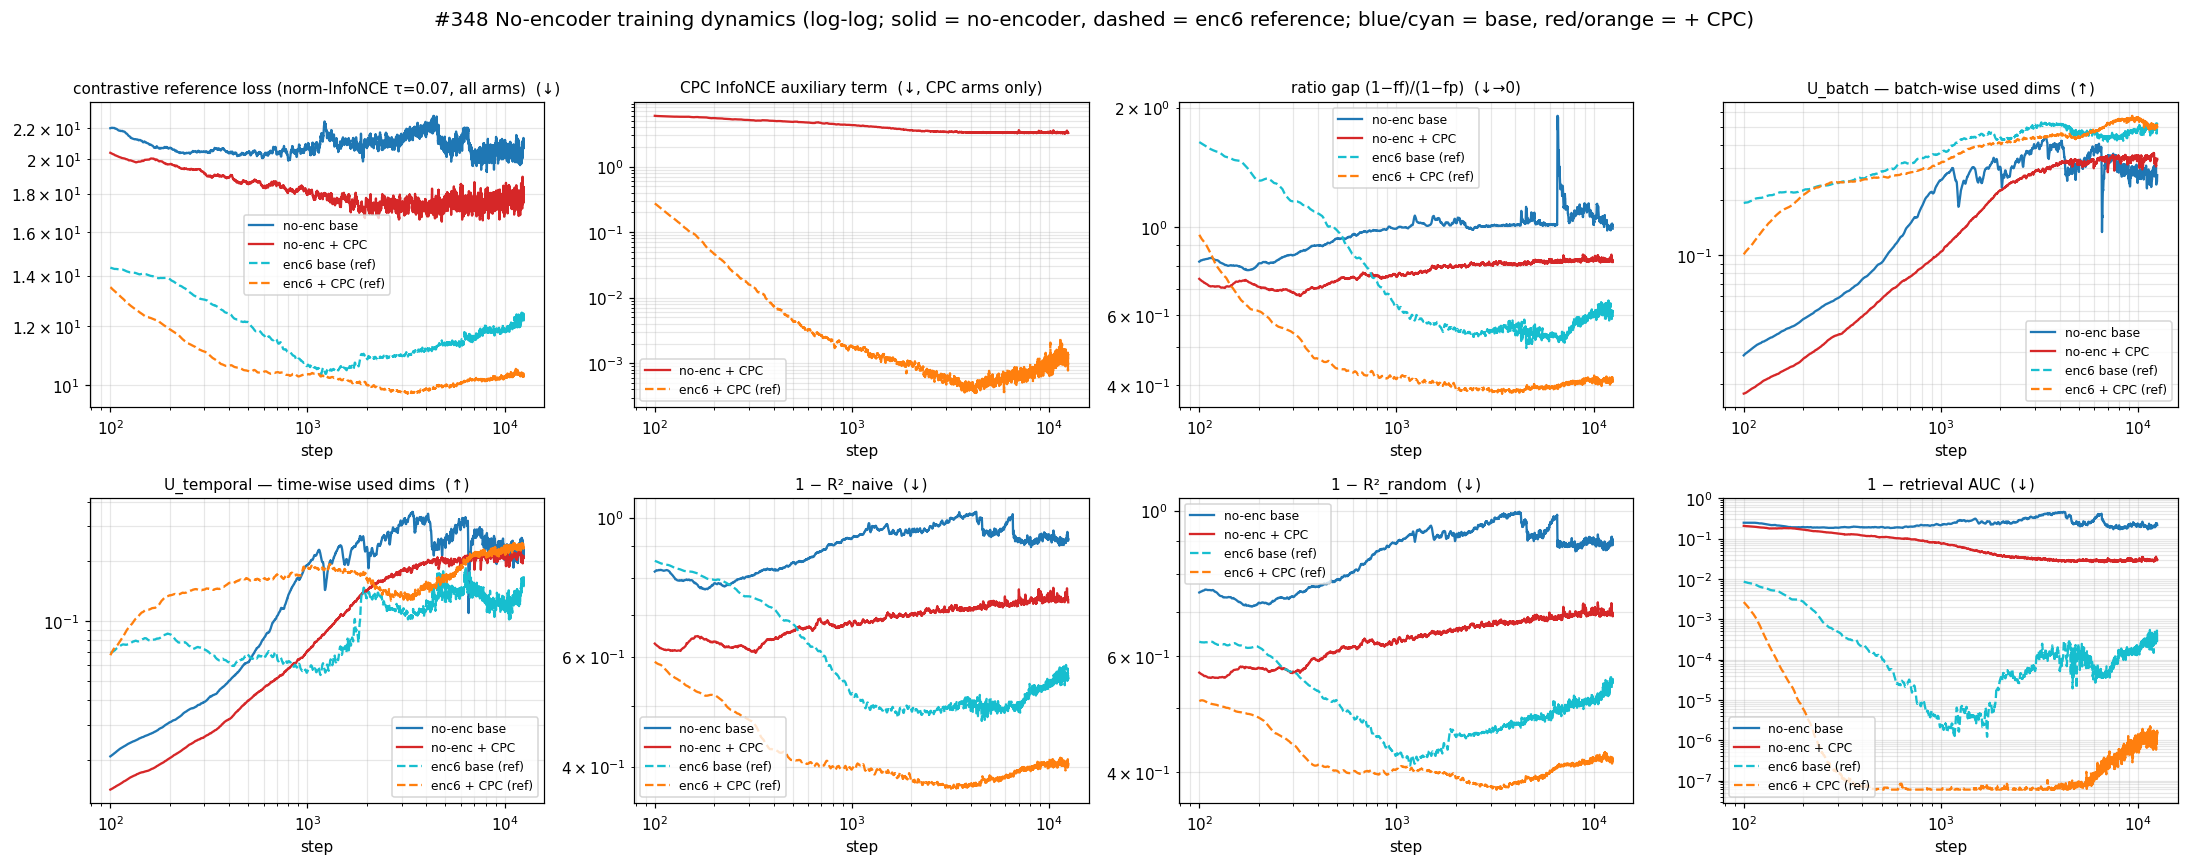
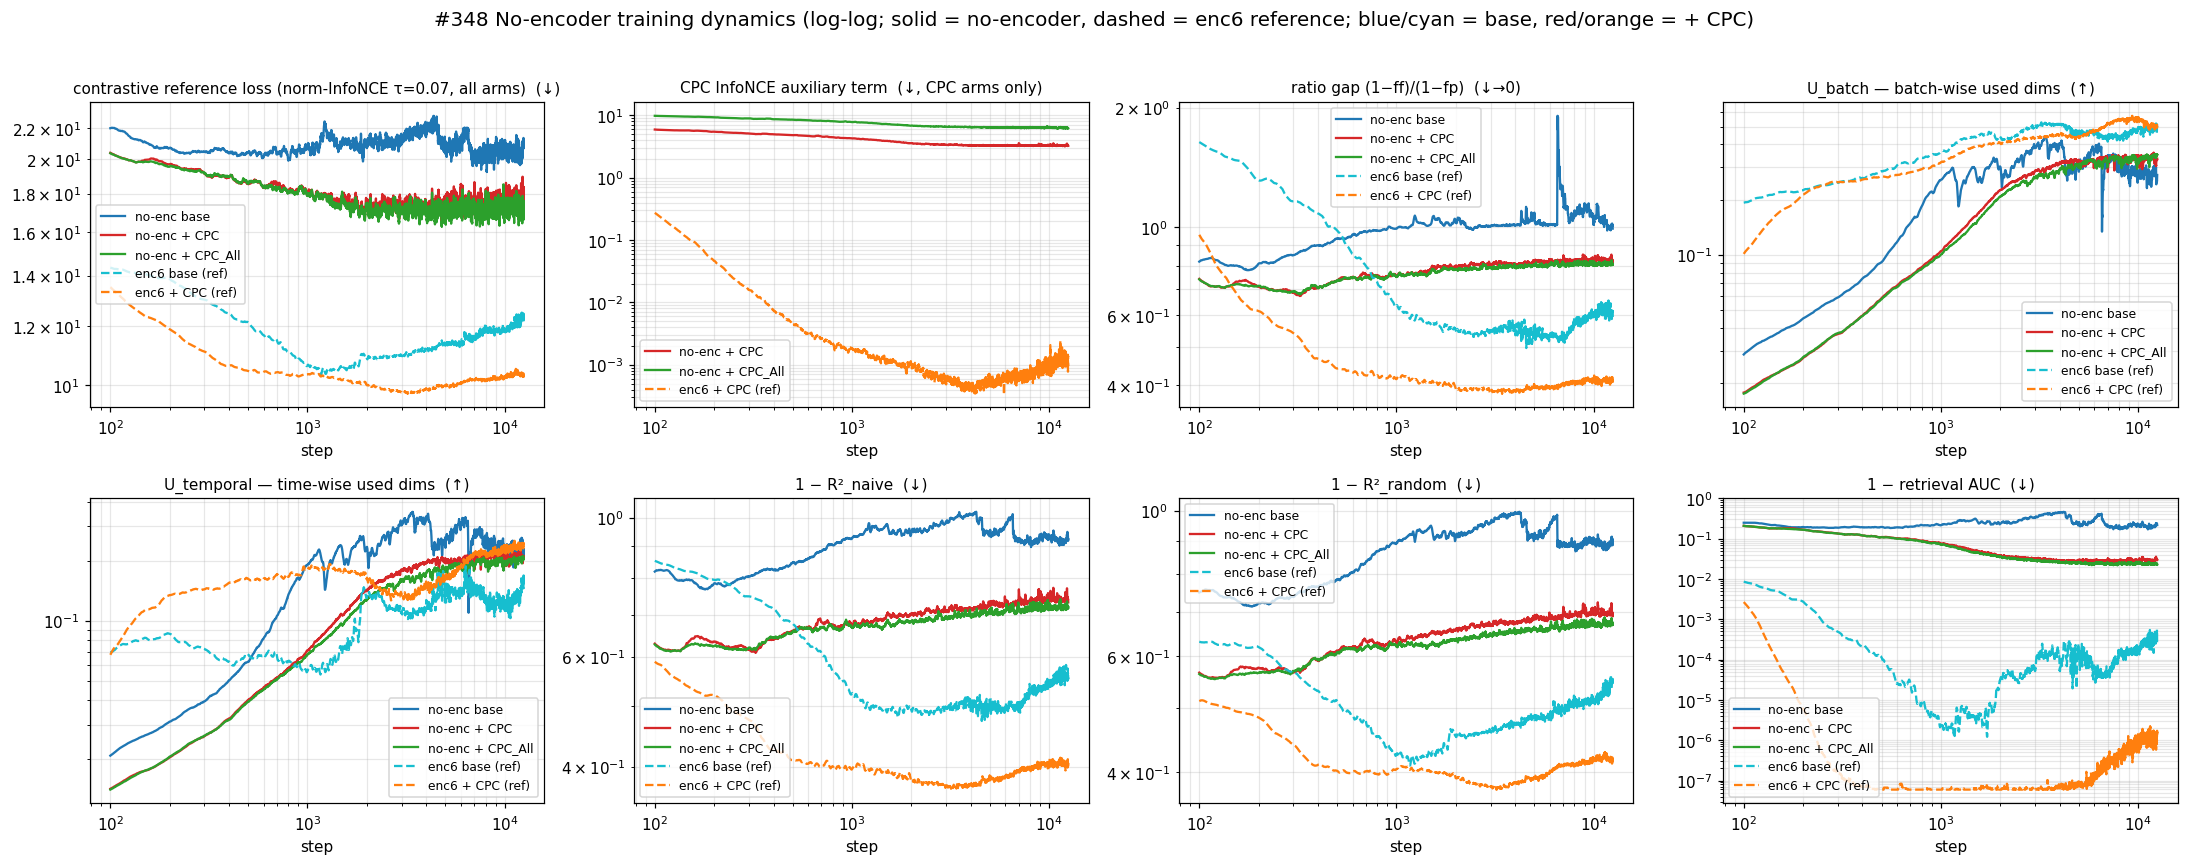
report(#348): add CPC_All arm (facts-only) — full-marginal CPC negatives
CPC_All (no-encoder, van den Oord Eq.4 full marginal candidate set): 2L 1.177/1.171,
6L 1.182/1.168. vs base reliably lower at every cell; vs the no-encoder narrow-CPC
the best cells are +0.009/+0.029 above (6L reliably), the last cells straddle 0; vs
encoder'd +CPC 6/8 intervals straddle 0. Table row + delta facts + dynamics curve
(cpc term stays ~6, doesn't collapse). gm/pairwise CSVs updated.

diff --git a/experiments/2026-06-15_no_encoder_redo/no_encoder_redo.md b/experiments/2026-06-15_no_encoder_redo/no_encoder_redo.md
@@ -1,10 +1,12 @@
 # No-encoder backbone: GIFT-Eval forecasting error with and without the CPC term
 
 We remove the encoder stack from the backbone (`--num-encoder-layers 0`) so the
-forecaster reads the patch-embedding directly, train it under two losses — the
-contrastive loss alone, and the contrastive loss plus the CPC InfoNCE auxiliary
-term — and measure GIFT-Eval forecasting error (GM-Relative MASE). We compare
-against the same recipe trained with a 3-layer and a 6-layer encoder.
+forecaster reads the patch-embedding directly, train it under three losses — the
+contrastive loss alone (**base**), the contrastive loss plus the CPC InfoNCE
+auxiliary term (**+ CPC**), and that term with its candidate set widened to the
+full van den Oord Eq. 4 marginal — every other sequence at every step
+(**+ CPC_All**) — and measure GIFT-Eval forecasting error (GM-Relative MASE). We
+compare against the same recipe trained with a 3-layer and a 6-layer encoder.
 
 *A backbone here is patch-embedding → (encoder stack) → forecaster. The
 patch-embedding (a GRU) turns each window patch into one token; the encoder is a
@@ -32,6 +34,7 @@ encoder (this work); 3 and 6 = the 3- and 6-layer-encoder backbones.
 | + CPC, **no encoder** | **1.168 / 1.165** | **1.153 / 1.160** |
 | + CPC, enc-3 | 1.185 / 1.153 | 1.158 / 1.144 |
 | + CPC, enc-6 | 1.179 / 1.180 | 1.158 / 1.162 |
+| + CPC_All, **no encoder** | **1.177 / 1.171** | **1.182 / 1.168** |
 
 Paired-bootstrap Δ = GM(no encoder) − GM(encoder'd), 90% interval (resampling the
 97-task list with repeats; positive ⇒ the no-encoder GM is higher):
@@ -52,15 +55,27 @@ interval: 2L best −0.258 (−0.325, −0.200), 6L best −0.199 (−0.250, −
 last −0.099 (−0.124, −0.076), 6L last −0.079 (−0.106, −0.056) — every interval
 below zero.
 
+**+ CPC_All** (no encoder, the full-marginal candidate set) vs **base**, same Δ:
+2L best −0.248 (−0.316, −0.190), 6L best −0.171 (−0.222, −0.122), 2L last −0.093
+(−0.114, −0.073), 6L last −0.071 (−0.094, −0.049) — every interval below zero.
+vs the no-encoder **+ CPC** arm, Δ = GM(+CPC_All) − GM(+CPC): 2L best +0.009
+(+0.000, +0.020), 6L best +0.029 (+0.011, +0.049), 2L last +0.007 (−0.002,
++0.015), 6L last +0.008 (−0.002, +0.019) — the two last cells straddle zero, the
+two best cells are above it. vs the encoder'd **+ CPC** arms, six of eight
+intervals straddle zero (the exceptions are +0.018 and +0.025 at the last
+checkpoint vs enc-3).
+
 ## Training curves
 
-![Training metrics, log-log. Solid = no encoder (blue base / red + CPC), dashed =
-enc-6 reference (blue/orange).](plots/training_dynamics.png)
+![Training metrics, log-log. Solid = no encoder (blue base / red + CPC / green
++ CPC_All), dashed = enc-6 reference (blue/orange).](plots/training_dynamics.png)
 
-The CPC term's logged value (panel 2) stays near 3 throughout the no-encoder run;
-in the encoder'd run it falls below 10⁻³ by about step 1,000. Across training the
-no-encoder + CPC run records a lower contrastive reference loss, lower 1−R², and
-lower 1−AUC than the no-encoder base run (panels 1, 6, 8).
+The CPC term's logged value (panel 2) stays near 3 (+ CPC) and near 6 (+ CPC_All)
+throughout the no-encoder runs; in the encoder'd run it falls below 10⁻³ by about
+step 1,000. (The + CPC and + CPC_All term values are on different scales — their
+candidate sets differ in size.) Across training the no-encoder + CPC and + CPC_All
+runs record a lower contrastive reference loss, lower 1−R², and lower 1−AUC than
+the no-encoder base run (panels 1, 6, 8).
 
 From best-loss to last checkpoint, the no-encoder + CPC GM changes by ≤0.007
 (2L 1.168→1.165, 6L 1.153→1.160); the no-encoder base GM is lower at the last
@@ -74,9 +89,10 @@ crossfade-triplet allt·0.8% data mix, qk-norm, attention-output norm, the
 `xshh_allt` contrastive loss with positive-in-denominator and floor subtraction,
 the encoder-side positive stop-gradient (`--stopgrad-positive-h`), τ 0.10, batch
 1024, 12,500 steps, seed 20260520 — with the encoder stack removed
-(`--num-encoder-layers 0`). The two arms differ only in the loss: **base** is the
+(`--num-encoder-layers 0`). The arms differ only in the loss: **base** is the
 contrastive loss alone; **+ CPC** adds the CPC InfoNCE term (`--cpc-infonce-weight
-1.0`). To score a backbone we freeze it and train a fresh quantile forecasting
+1.0`); **+ CPC_All** is the same term with its candidate set widened to the full
+marginal (`--cpc-infonce-negs cross`). To score a backbone we freeze it and train a fresh quantile forecasting
 head, once with two transformer layers and once with six, and evaluate on
 GIFT-Eval's 97 tasks at the best-loss checkpoint (lowest smoothed contrastive
 loss) and the last checkpoint (step 12,500). The enc-3 and enc-6 numbers come
@@ -96,5 +112,8 @@ L_cpc = − log(  exp(e_{t+1}ᵀ W₁ h_t)  /  Σ_{e_j ∈ C}  exp(e_jᵀ W₁ h
 
 The positive sits in the denominator (normalized InfoNCE ≥ 0), summed
 equal-weight, no stop-gradient, no temperature (`W₁` carries the scale). The
-candidate set `C` here is the matched-step cross-batch embeddings plus the same
-sequence's other-step embeddings.
+candidate set `C` differs by arm: **+ CPC** uses the matched-step cross-batch
+embeddings plus the same sequence's other-step embeddings; **+ CPC_All** uses the
+positive plus every other sequence's embeddings at every step (the full marginal
+`p(x_{t+1})` of van den Oord Eq. 4, whose negatives are independent of the context
+`h_t`).
